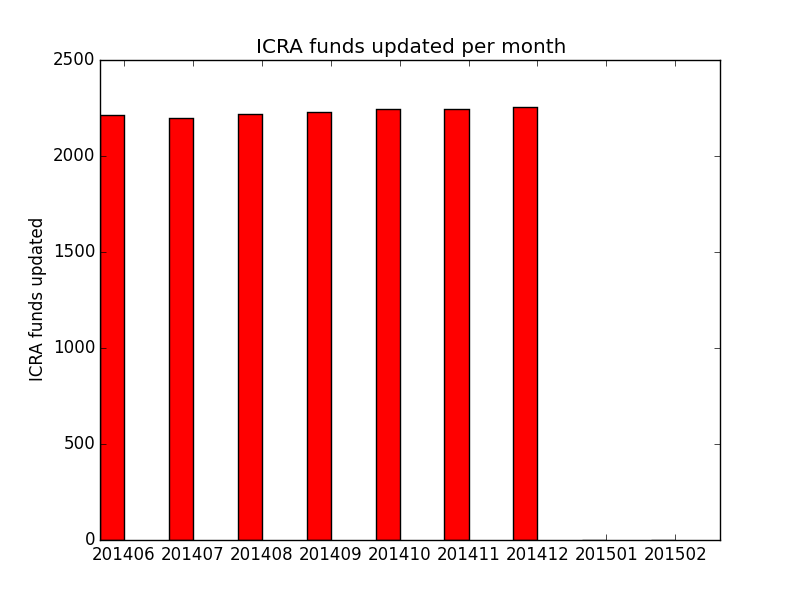
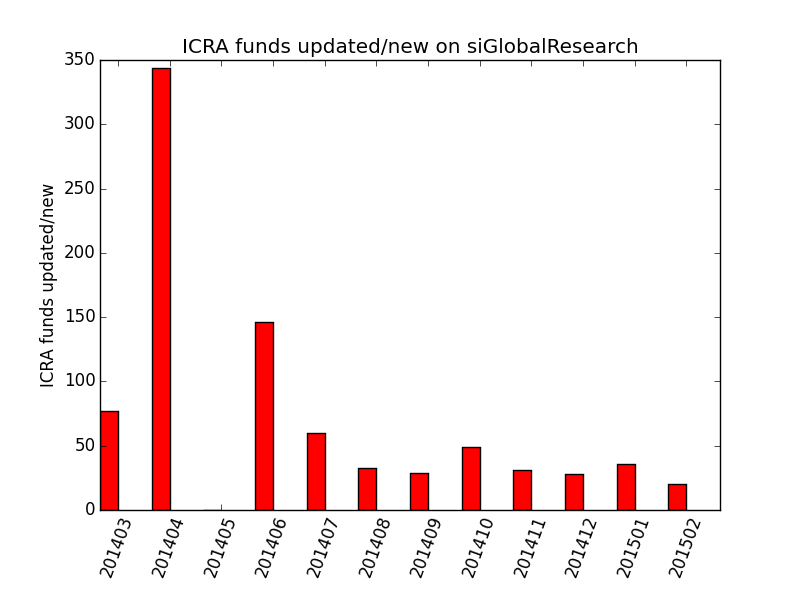
Added stack bar chart for Import Portfolio
Added a stack bar chart to show different regions. Also extended the
charts to include 12 months

Changed region(s): [[0.0312, 0.09, 0.9062, 0.96], [0.2188, 0.06, 0.8125, 0.09], [0.0625, 0.09, 0.125, 0.12]]

diff --git a/templates/layout.html b/templates/layout.html
@@ -19,8 +19,9 @@
         <div class="navbar-collapse collapse">
           <ul class="nav navbar-nav">
             <li><a href="/">ODS Export</a></li>
-			<li><a href="/">Hindsight</a></li>
+			<li><a href="/IE">Investor Economics</a></li>
 			<li><a href="/ICRA">ICRA</a></li>
+      <li><a href="/CBSO">CBSO</a></li>
           </ul>
         </div><!--/.nav-collapse -->
       </div>

diff --git a/templates/CBSO.html b/templates/CBSO.html
@@ -1,0 +1,30 @@
+{%extends "layout.html"%}
+
+{%block content%}
+
+<br><br><br>
+
+
+<h1>CBSO</h1>
+
+<div class="col-md-6">
+
+	<h2>Managers left to process</h2>
+
+	<ul>
+		{% for manager in managersLeft %}
+
+		<li>{{manager[0]}}</li>
+
+		{%endfor%}
+	</ul>
+</div>
+
+<div class="col-md-6">
+
+	Other stuff I guess
+
+</div>
+
+
+{% endblock %}

diff --git a/templates/ICRA.html b/templates/ICRA.html
@@ -7,7 +7,17 @@
 
 <h1>ICRA</h1>
 
+<div class="col-md-6">
+
+<br><img src = "/static/ICRARawDB.png" width="500">
+
+</div>
+
+<div class="col-md-6">
+
 <br><img src = "/static/ICRA.png" width="500">
+
+</div>
 
 {% endblock %}
 

diff --git a/templates/IE.html b/templates/IE.html
@@ -1,0 +1,10 @@
+{%extends "layout.html"%}
+
+{%block content%}
+
+
+<br><br><br>
+
+<h1> hello!!!! </h1>
+
+{% endblock %}

diff --git a/SQLHelper.py b/SQLHelper.py
@@ -7,8 +7,6 @@ import matplotlib.pyplot as plt
 import calendar
 import time
 
-
-
 cnxn = po.connect('DRIVER={SQL Server Native Client 10.0};SERVER=GLDB;DATABASE=siVendors;Trusted_Connection=yes')
 cursor = cnxn.cursor()
 
@@ -21,24 +19,50 @@ def generateGraph(x,y,title,ylable,destination,N=9):
 	ax.set_title(title)
 	ax.set_xticks(ind+width)
 	ax.set_xticklabels( x )
+	plt.xticks(rotation=70)
+	plt.gcf().subplots_adjust(bottom=0.15)
 	plt.savefig(destination)
 
+def generateStackedGraph(x,y,title,ylable,legend,destination,N=9):
+    
+    colorarray = ['r','b','g','y','c','m']
+    
+    width = .35
+    ind = np.arange(N)
+    fig, ax = plt.subplots()
+    bottombar = [0]*len(y[0])
+    barlist =[]
+    
+    for index, bars in enumerate(y):
+        barlist.append(ax.bar(ind, bars, width, color=colorarray[index], bottom = bottombar)[0])
+        bottombar = [i+bars[index] for index,i in enumerate(bottombar)]
+        
+    ax.set_ylabel(ylable)
+    ax.set_title(title)
+    ax.set_xticks(ind+width)
+    ax.set_xticklabels( x )
+    plt.xticks(rotation=70)
+    plt.gcf().subplots_adjust(bottom=0.15)
+    plt.legend(barlist,legend)
+    plt.savefig(destination)
+
+
 def generateTrailingMonthlyLists(QueryFunction,months,date):
-	monthsList = []
-	countlist = []
+    monthsList = []
+    countlist = []
 
-	monthsList.append(date.strftime("%Y%m"))
-	countlist.append(int(QueryFunction(date)))
+    monthsList.append(date.strftime("%Y%m"))
+    countlist.append(QueryFunction(date))
 
-	for x in range(months - 1):
-		date = date - dateutil.relativedelta.relativedelta(months=1)
-		monthsList.append(str(date.strftime("%Y%m")))
-		countlist.append(int(QueryFunction(date)))
+    for x in range(months - 1):
+        date = date - dateutil.relativedelta.relativedelta(months=1)
+        monthsList.append(str(date.strftime("%Y%m")))
+        countlist.append(QueryFunction(date))
 
-	countlist.reverse()
-	monthsList.reverse()
+    countlist.reverse()
+    monthsList.reverse()
 
-	return monthsList,countlist
+    return monthsList,countlist    
 
 
 def getAssetsUpdatedThisMonth(date = datetime.datetime.now()):
@@ -59,44 +83,50 @@ def getLatestAssetDate():
 
 def generateAssetGraph(date):
 
-	mon, coun = generateTrailingMonthlyLists(getAssetsUpdatedThisMonth,9,date)
-	generateGraph(mon,coun,'Assets updated per month','Assets updated',"./Static/asset")
+	monthsback = 12
+
+	mon, coun = generateTrailingMonthlyLists(getAssetsUpdatedThisMonth,monthsback,date)
+	generateGraph(mon,coun,'Assets updated per month','Assets updated',"./Static/asset",monthsback)
 
 def getNewFundsThisMonth(d = datetime.datetime.now()):
-	cnxn = po.connect('DRIVER={SQL Server Native Client 10.0};SERVER=GLDB;DATABASE=siGlobalResearch;Trusted_Connection=yes')
-	cursor = cnxn.cursor()
-	d = d.replace(day = 1)
-	d2 = d + dateutil.relativedelta.relativedelta(months=1)
+    cnxn = po.connect('DRIVER={SQL Server Native Client 10.0};SERVER=GLDB;DATABASE=siGlobalResearch;Trusted_Connection=yes')
+    cursor = cnxn.cursor()
+    d = d.replace(day = 1)
+    d2 = d + dateutil.relativedelta.relativedelta(months=1)
 
-	d = d.strftime("%m-%d-%Y")
-	d2 = d2.strftime("%m-%d-%Y")
+    d = d.strftime("%m-%d-%Y")
+    d2 = d2.strftime("%m-%d-%Y")
 
-	cursor.execute("SELECT COUNT(*) count FROM dbo.siFund WHERE dCreated >= '%s' and dCreated <= '%s' " % (str(d), str(d2)))
-	result = cursor.fetchall()
-
-	for row in result:
-	    return row.count
+    regionList = ["ASIA","OFF","EURO","NA","AUST"]
+    
+    returnList = []
+    
+    for region in regionList:
+    
+        cursor.execute('''
+        
+        SELECT COUNT(*) count
+        FROM dbo.siFund f
+        JOIN  dbo.siPortfolio p ON f.PortfolioId = p.PortfolioId
+        JOIN dbo.siDomicile d ON p.DomicileId = d.DomicileId
+        WHERE f.dCreated >= '%s' and f.dCreated <= '%s' AND regionID = '%s' 
+        
+        '''% (str(d), str(d2), region))
+        result = cursor.fetchall()
+        
+        for row in result:
+             returnList.append(row.count)
+                
+    return returnList
 
 def generateNewFundsGraph(date = datetime.datetime.now()):
-	mon, coun = generateTrailingMonthlyLists(getNewFundsThisMonth,9,date)
-	generateGraph(mon,coun,'New funds per month','New funds',"./Static/newFunds")
+    monthsback = 12
+    mon, coun = generateTrailingMonthlyLists(getNewFundsThisMonth,monthsback,date)
+    coun = zip(*coun)
+    generateStackedGraph(mon,coun,"New Funds per month","New funds",["ASIA","OFF","EURO","NA","AUST"],"./Static/newFunds",N=monthsback)
 
-def getNewFundsThisMonth(d = datetime.datetime.now()):
-	cnxn = po.connect('DRIVER={SQL Server Native Client 10.0};SERVER=GLDB;DATABASE=siGlobalResearch;Trusted_Connection=yes')
-	cursor = cnxn.cursor()
-	d = d.replace(day = 1)
-	d2 = d + dateutil.relativedelta.relativedelta(months=1)
 
-	d = d.strftime("%m-%d-%Y")
-	d2 = d2.strftime("%m-%d-%Y")
-
-	cursor.execute("SELECT COUNT(*) count FROM dbo.siFund WHERE dCreated >= '%s' and dCreated <= '%s' " % (str(d), str(d2)))
-	result = cursor.fetchall()
-
-	for row in result:
-	    return row.count
-
-def getICRAaddedThisMonth(d = datetime.datetime.now()):
+def getICRAaddedThisMonthRawDB(d = datetime.datetime.now()):
 	cnxn = po.connect('DRIVER={SQL Server Native Client 10.0};SERVER=GLDB;DATABASE=RawDB;Trusted_Connection=yes')
 	cursor = cnxn.cursor()
 	d = d.replace(day = 1)
@@ -111,6 +141,54 @@ def getICRAaddedThisMonth(d = datetime.datetime.now()):
 	for row in result:
 	    return row.count	
 
+def generateICRAGraphRawDB(date = datetime.datetime.now()):
+	monthsback = 12
+	mon, coun = generateTrailingMonthlyLists(getICRAaddedThisMonthRawDB,monthsback,date)
+	generateGraph(mon,coun,'ICRA funds staged on RawDB','ICRA funds updated',"./Static/ICRARawDB",monthsback)
+
+
+def getICRAaddedThisMonth(d = datetime.datetime.now()):
+	cnxn = po.connect('DRIVER={SQL Server Native Client 10.0};SERVER=GLDB;DATABASE=siGlobalResearch;Trusted_Connection=yes')
+	cursor = cnxn.cursor()
+	d = d.replace(day = 1)
+	d2 = d + dateutil.relativedelta.relativedelta(months=1)
+
+	d = d.strftime("%m-%d-%Y")
+	d2 = d2.strftime("%m-%d-%Y")
+
+	cursor.execute("SELECT COUNT(*) count FROM dbo.siAsset WHERE dModified >= '%s' and dModified <= '%s' and (cModified  = 'India Rollup Asset' or cModified = 'India New Launches' ) " % (str(d), str(d2)))
+	result = cursor.fetchall()
+
+	for row in result:
+	    return row.count	
+
 def generateICRAGraph(date = datetime.datetime.now()):
-	mon, coun = generateTrailingMonthlyLists(getICRAaddedThisMonth,9,date)
-	generateGraph(mon,coun,'ICRA funds updated per month','ICRA funds updated',"./Static/ICRA")
+	monthsback = 12
+	mon, coun = generateTrailingMonthlyLists(getICRAaddedThisMonth,monthsback,date)
+	generateGraph(mon,coun,'ICRA funds updated/new on siGlobalResearch','ICRA funds updated/new',"./Static/ICRA",monthsback)
+
+
+def getFundManagersLeft():
+	cnxn = po.connect('DRIVER={SQL Server Native Client 10.0};SERVER=GLDB;Trusted_Connection=yes')
+	cursor = cnxn.cursor()
+	cursor.execute('''
+
+						SELECT a.ParticipantName
+  							FROM (
+								SELECT DISTINCT ParticipantName 
+	  								FROM Vendors.CBSO.OriginationMaster
+  							) a
+							LEFT JOIN (
+	  							SELECT DISTINCT ParticipantName
+	    						FROM Vendors.CBSO.OriginationMaster
+	    						WHERE PeriodId = (
+	  	  							SELECT PeriodID
+	  	    						FROM siGLobalResearch.dbo.siPeriod
+	  	    						WHERE CurrentPeriod = 1
+	    					)
+						) b ON a.ParticipantName = b.ParticipantName
+  					WHERE b.ParticipantName IS NULL
+
+	''')
+	result = cursor.fetchall()
+	return result

diff --git a/dataDash.py b/dataDash.py
@@ -52,8 +52,8 @@ def ODS():
 
     latestAssetDate = SQLHelper.getLatestAssetDate()
     AssetsUpdatedThisMonth = SQLHelper.getAssetsUpdatedThisMonth(latestAssetDate)
-    NewFundsThisMonth = SQLHelper.getNewFundsThisMonth()
-
+    NewFundsThisMonth = SQLHelper.getNewFundsThisMonth()   
+    NewFundsThisMonth = sum(NewFundsThisMonth)
     SQLHelper.generateAssetGraph(latestAssetDate)
     SQLHelper.generateNewFundsGraph()
 
@@ -61,19 +61,34 @@ def ODS():
     previous = f.readline()
     f.close()
 
-    fundsSinceRefresh = int(NewFundsThisMonth) - int(previous)
+    fundsSinceRefresh = NewFundsThisMonth - int(previous)
 
     f = open("previous.txt","w")
     f.write(str(NewFundsThisMonth))
     f.close()
 
-    return render_template('ODS.html',latestAssetDate= latestAssetDate, AssetsUpdatedThisMonth = AssetsUpdatedThisMonth, NewFundsThisMonth= NewFundsThisMonth, fundsSinceRefresh = fundsSinceRefresh)
+
+    return render_template('ODS.html',latestAssetDate= latestAssetDate, AssetsUpdatedThisMonth = AssetsUpdatedThisMonth, NewFundsThisMonth = NewFundsThisMonth, fundsSinceRefresh = fundsSinceRefresh)
 
 @app.route('/ICRA')
 def ICRA():
-        SQLHelper.generateICRAGraph()
-        return render_template('ICRA.html')
+    SQLHelper.generateICRAGraphRawDB()
+    SQLHelper.generateICRAGraph()
+    return render_template('ICRA.html')
+
+@app.route('/CBSO')
+def CBSO():
+    managersLeft = SQLHelper.getFundManagersLeft()
+    return render_template('CBSO.html', managersLeft=managersLeft)
+
+@app.route('/IE')
+def IE():
+    return render_template('IE.html')
+
 
 if __name__ == '__main__':
     app.run(host='0.0.0.0')
 
+@app.route('/hindsight')
+def Hindsight():
+    pass
